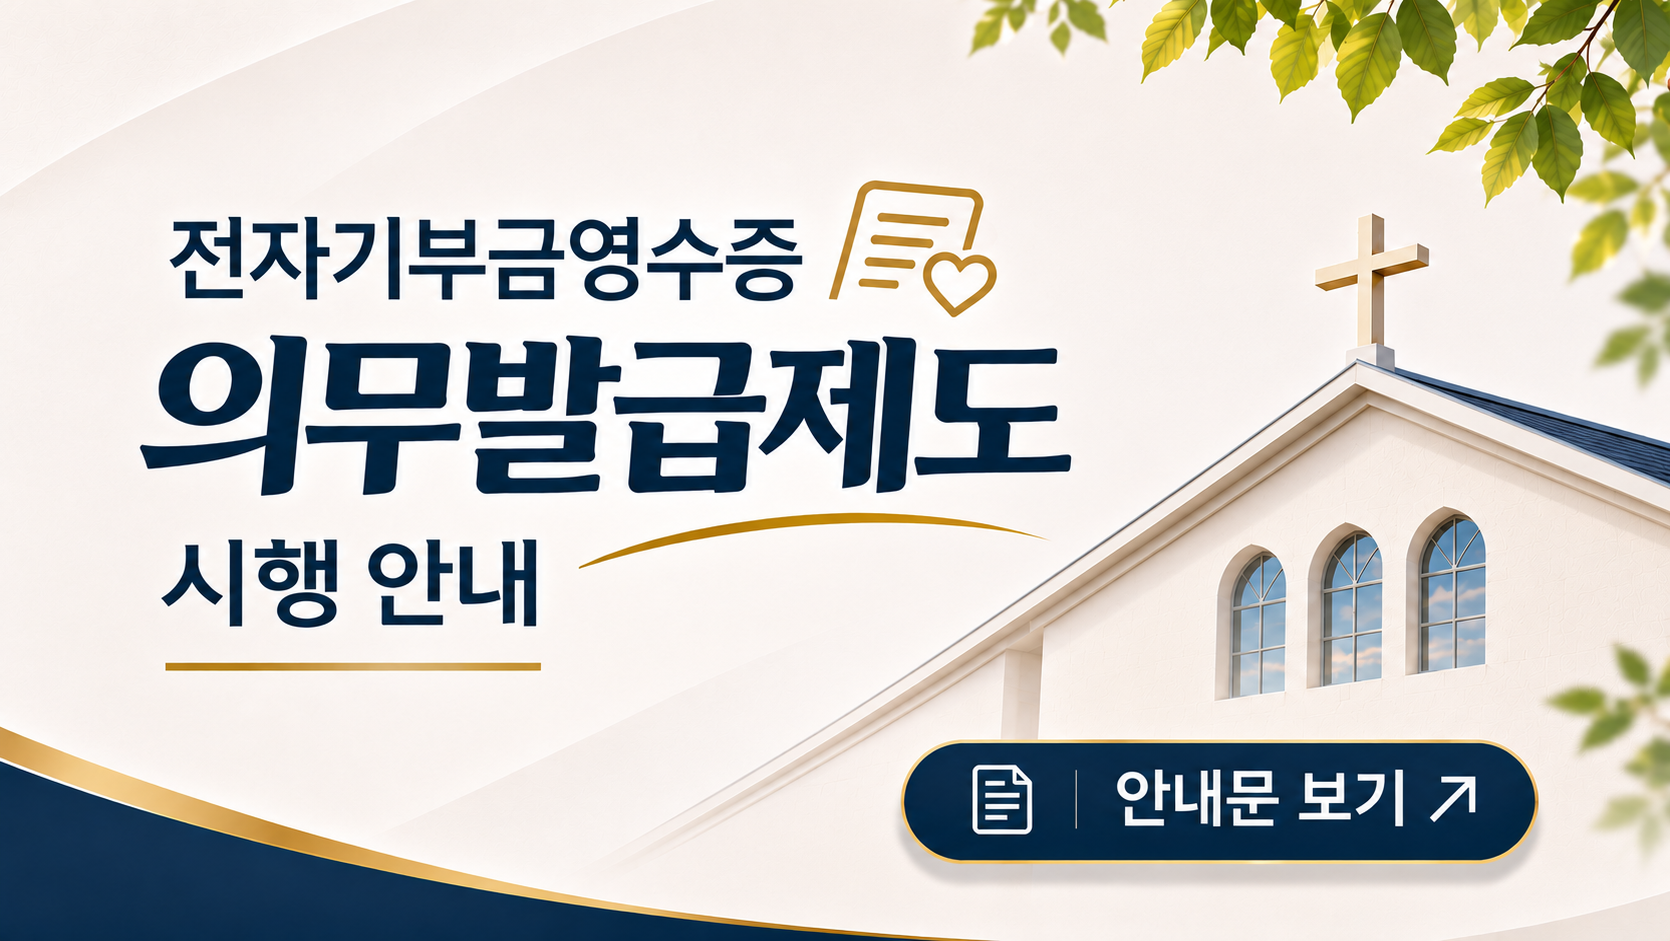
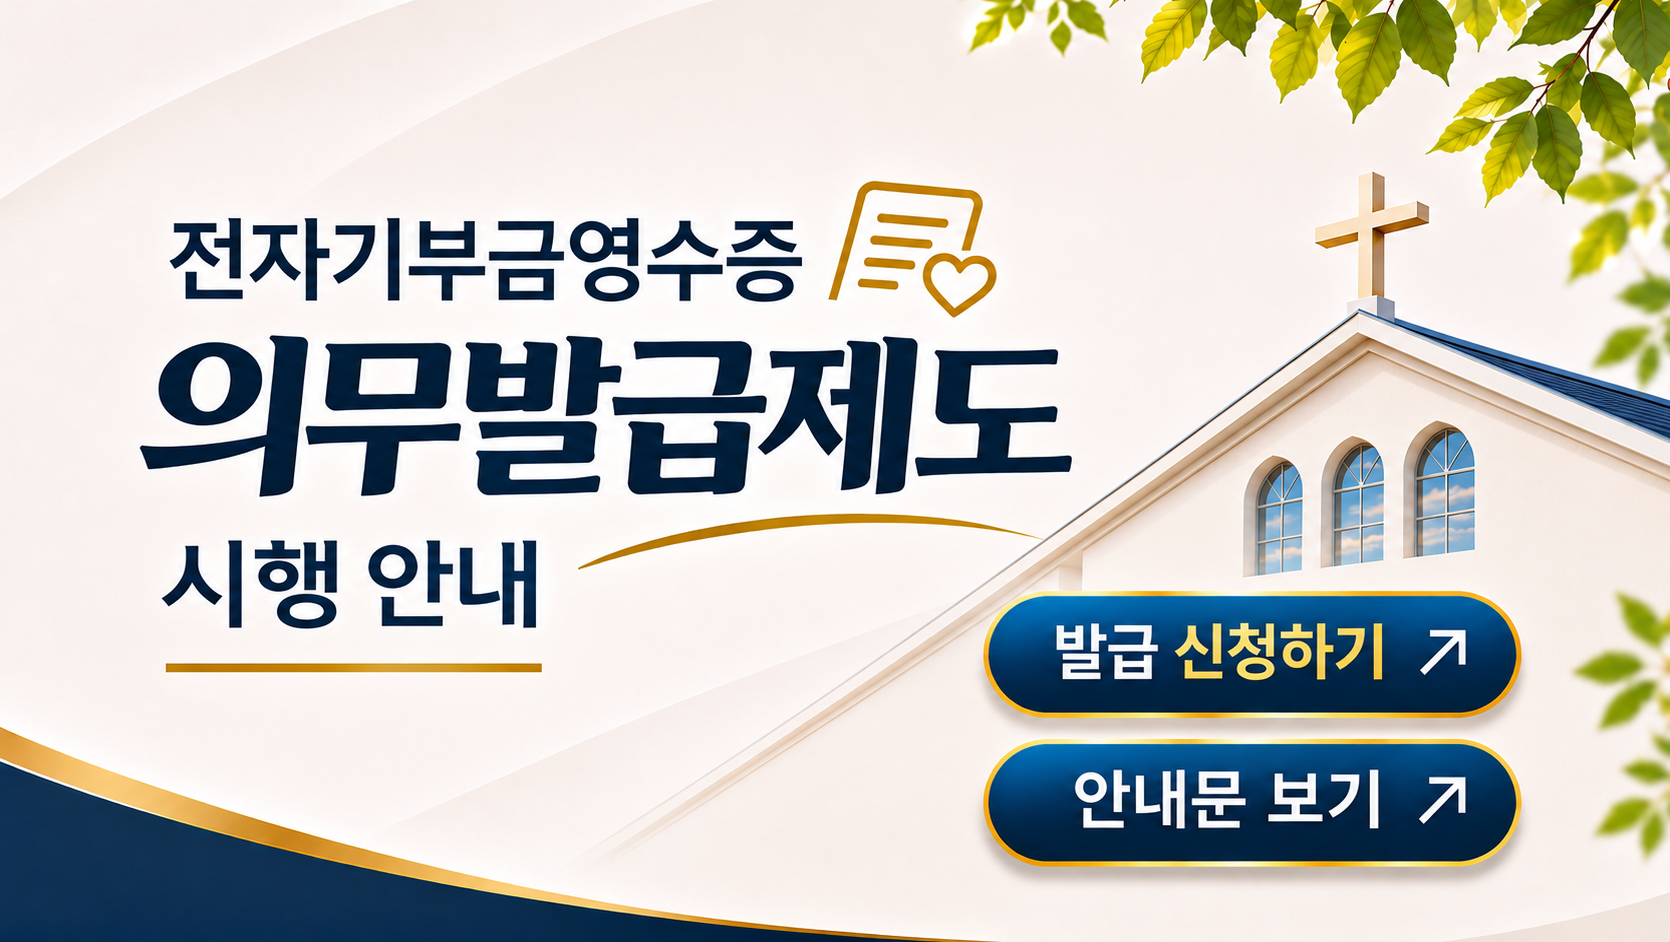
2026-11-22 홈페이지 게시물 업데이트  - 팝업 수정 · 전자기부금영수증 배너

diff --git a/index.html b/index.html
@@ -390,7 +390,8 @@
                 endDate: "2026-12-27",
                 endTime: "23:59",
                 enabled: true,
-                aspectLock: true
+                aspectLock: true,
+                hotspotsData: "%5B%7B%22x%22%3A59.28%2C%22y%22%3A78.82%2C%22w%22%3A31.74%2C%22h%22%3A12.84%2C%22action%22%3A%22file%22%2C%22label%22%3A%22%EC%83%88+%ED%81%B4%EB%A6%AD+%EC%98%81%EC%97%AD%22%7D%2C%7B%22x%22%3A59.28%2C%22y%22%3A62.96%2C%22w%22%3A31.63%2C%22h%22%3A12.91%2C%22action%22%3A%22link%22%2C%22target%22%3A%22https%3A%2F%2Fdocs.google.com%2Fforms%2Fd%2Fe%2F1FAIpQLSfo45ZpPjyFae5VMN25cWD6xza4ct1Xkt3CKXzyIdXTNWX2yA%2Fviewform%22%2C%22label%22%3A%22%EC%83%88+%ED%81%B4%EB%A6%AD+%EC%98%81%EC%97%AD%22%7D%5D"
             },
             {
                 id: "popup_20261106_133620_a598c7",
@@ -409,7 +410,8 @@
                 endDate: "2026-12-03",
                 endTime: "23:59",
                 enabled: true,
-                aspectLock: true
+                aspectLock: true,
+                hotspotsData: ""
             }
         ];
 
@@ -600,6 +602,30 @@
             });
         }
 
+        // Independent image regions; absent data preserves the legacy whole-image action.
+        function popupHotspotHTML(p) {
+            let spots=[];
+            try { if (p.hotspotsData) spots=JSON.parse(decodeURIComponent(String(p.hotspotsData).replace(/\+/g,'%20'))); }
+            catch (e) { console.warn('Popup area settings skipped', e); return ''; }
+            if (!Array.isArray(spots) || spots.length===0 || spots.length>16) return '';
+            const parts=[];
+            for (const h of spots) {
+                const vals=[h.x,h.y,h.w,h.h].map(Number);
+                if (vals.some(v=>!Number.isFinite(v)) || vals[0]<0 || vals[1]<0 || vals[2]<2 || vals[3]<2 || vals[0]+vals[2]>100.01 || vals[1]+vals[3]>100.01) continue;
+                const style='position:absolute;z-index:3;left:'+vals[0]+'%;top:'+vals[1]+'%;width:'+vals[2]+'%;height:'+vals[3]+'%;cursor:pointer;';
+                const label=popupAttr(h.label||'팝업 안내 바로가기');
+                const link=String(h.target||'').trim();
+                const internal=String(p.downloadUrl||'').trim();
+                const fileOK=/^(?![a-z][a-z0-9+.-]*:)(?!\/\/)(?!.*\.\.)[A-Za-z0-9_./%?#=&-]+$/i.test(internal) && /\.(pdf|jpe?g|png)(?:[?#].*)?$/i.test(internal);
+                if(h.action==='link' && (link.startsWith('https://') || /^(?![a-z][a-z0-9+.-]*:)(?!\/\/)(?!.*\.\.)[A-Za-z0-9_./%?#=&-]+$/i.test(link))) {
+                    parts.push('<a href="'+popupAttr(link)+'" target="_blank" rel="noopener noreferrer" aria-label="'+label+'" title="'+label+'" style="'+style+'"></a>');
+                } else if(h.action==='file' && fileOK) {
+                    parts.push('<a href="'+popupAttr(internal)+'" target="_blank" rel="noopener noreferrer" aria-label="'+label+'" title="'+label+'" style="'+style+'"></a>');
+                } else if(h.action==='none') { parts.push('<span aria-hidden="true" style="'+style+'cursor:default;"></span>'); }
+            }
+            return parts.join('');
+        }
+
         function initPopups() {
             const container = document.getElementById('popup-container');
             if (!container) return;
@@ -630,7 +656,10 @@
                 const safeDownload = safeActionFile && /\.pdf(?:[?#].*)?$/i.test(downloadUrl);
                 const ratioStyle = height > 0 ? 'aspect-ratio:' + width + '/' + height + ';' : '';
                 let media = '<img src="' + popupAttr(p.imageUrl) + '" alt="' + popupAttr(p.name || '팝업 안내') + '" class="w-full h-full object-contain bg-white" draggable="false">';
-                if (actionType === 'download' && safeDownload && downloadUrl) {
+                const hotspotMarkup = popupHotspotHTML(p);
+                if (hotspotMarkup) {
+                    media = '<div class="relative w-full h-full">' + media + hotspotMarkup + '</div>';
+                } else if (actionType === 'download' && safeDownload && downloadUrl) {
                     const attr = downloadName ? ' download="' + popupAttr(downloadName) + '"' : ' download';
                     media = '<a href="' + popupAttr(downloadUrl) + '"' + attr + ' class="block cursor-pointer w-full h-full">' + media + '</a>';
                 } else if (actionType === 'view' && safeActionFile && downloadUrl) {
